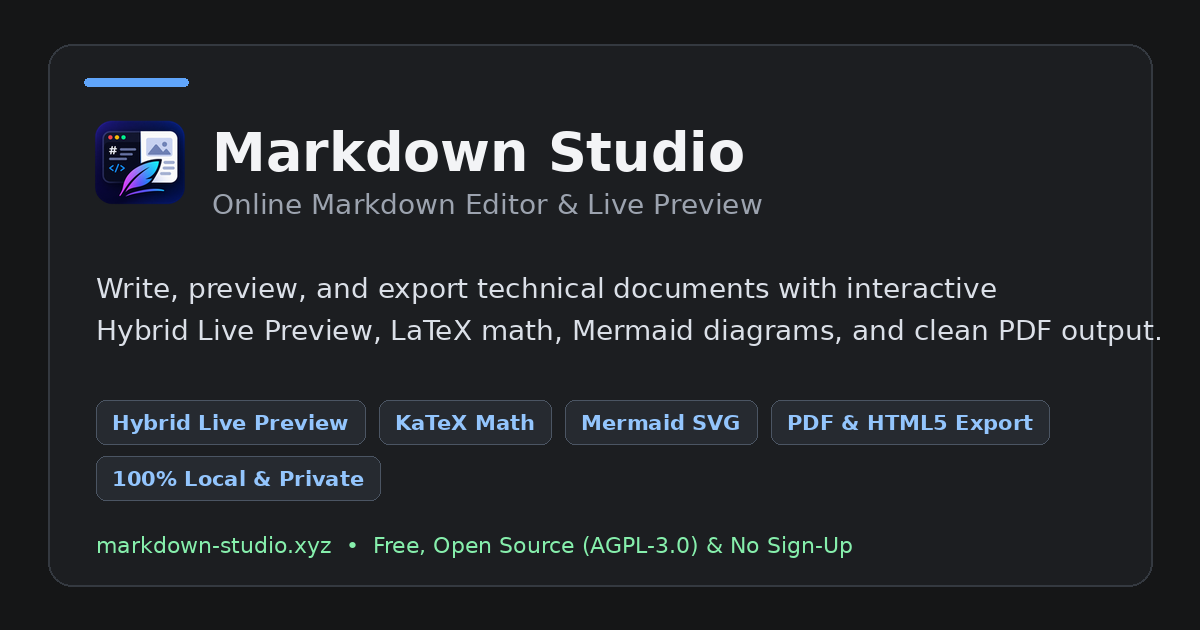
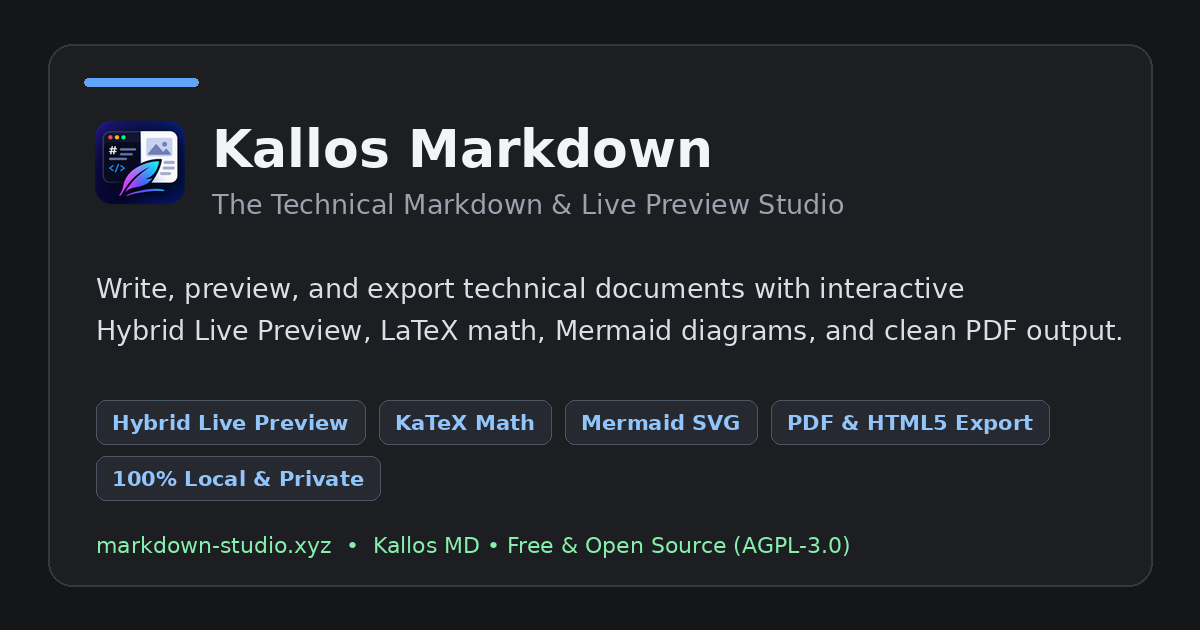
feat(branding): introduce Kallos Markdown brand identity and bilingual static landings
- Establish Kallos Markdown (Kallos MD) as the distinctive brand name on markdown-studio.xyz
- Add ultra-fast static landing pages for English (/) and Spanish (/es/) with semantic content and FAQ
- Relocate dynamic SPA editor to /app/ with noindex robots directive and locale query param (?lang=)
- Configure multi-page build in vite.config.ts for root, /es/, and /app/
- Add reciprocal hreflang alternates (en, es, x-default), canonical tags, and structured JSON-LD WebApplication schemas
- Add 1200x630 og-image.png, lightweight landing.css, 404.html, and updated sitemap.xml
- Update sidebar header and READMEs with Kallos Markdown branding and project roadmap
- Add automated verification script scripts/seo-check.mjs and npm run seo:check script

diff --git a/es/index.html b/es/index.html
@@ -27,7 +27,7 @@
   <link rel="manifest" href="/manifest.webmanifest" />
   <link rel="stylesheet" href="/landing.css" />
 
-  <title>Markdown Studio – Editor Markdown Online con Vista Previa</title>
+  <title>Kallos Markdown – Editor Markdown Online con Vista Previa</title>
   <meta name="description"
     content="Editor Markdown online gratuito con vista previa en vivo, fórmulas LaTeX (KaTeX), diagramas Mermaid y exportación a PDF. Privado y sin registro." />
   <meta name="author" content="Manuel Alvarez" />
@@ -40,29 +40,30 @@
 
   <meta property="og:type" content="website" />
   <meta property="og:url" content="https://markdown-studio.xyz/es/" />
-  <meta property="og:site_name" content="Markdown Studio" />
+  <meta property="og:site_name" content="Kallos Markdown" />
   <meta property="og:locale" content="es_ES" />
   <meta property="og:locale:alternate" content="en_US" />
-  <meta property="og:title" content="Markdown Studio – Editor Markdown Online con Vista Previa" />
+  <meta property="og:title" content="Kallos Markdown – Editor Markdown Online con Vista Previa" />
   <meta property="og:description"
     content="Editor Markdown online gratuito con vista previa en vivo, fórmulas LaTeX (KaTeX), diagramas Mermaid y exportación a PDF. Privado y sin registro." />
   <meta property="og:image" content="https://markdown-studio.xyz/og-image.png" />
   <meta property="og:image:width" content="1200" />
   <meta property="og:image:height" content="630" />
-  <meta property="og:image:alt" content="Markdown Studio – Editor Markdown Online con Vista Previa en Vivo, Fórmulas KaTeX, Diagramas Mermaid y Exportación a PDF" />
+  <meta property="og:image:alt" content="Kallos Markdown – Editor Markdown Online con Vista Previa en Vivo, Fórmulas KaTeX, Diagramas Mermaid y Exportación a PDF" />
 
   <meta name="twitter:card" content="summary_large_image" />
-  <meta name="twitter:title" content="Markdown Studio – Editor Markdown Online con Vista Previa" />
+  <meta name="twitter:title" content="Kallos Markdown – Editor Markdown Online con Vista Previa" />
   <meta name="twitter:description"
     content="Editor Markdown online gratuito con vista previa en vivo, fórmulas LaTeX (KaTeX), diagramas Mermaid y exportación a PDF. Privado y sin registro." />
   <meta name="twitter:image" content="https://markdown-studio.xyz/og-image.png" />
-  <meta name="twitter:image:alt" content="Markdown Studio – Editor Markdown Online con Vista Previa en Vivo, Fórmulas KaTeX, Diagramas Mermaid y Exportación a PDF" />
+  <meta name="twitter:image:alt" content="Kallos Markdown – Editor Markdown Online con Vista Previa en Vivo, Fórmulas KaTeX, Diagramas Mermaid y Exportación a PDF" />
 
   <script type="application/ld+json">
   {
     "@context": "https://schema.org",
     "@type": "WebApplication",
-    "name": "Markdown Studio",
+    "name": "Kallos Markdown",
+    "alternateName": ["Kallos MD", "Markdown Studio"],
     "url": "https://markdown-studio.xyz/es/",
     "description": "Editor Markdown online gratuito con vista previa en vivo, fórmulas LaTeX (KaTeX), diagramas Mermaid y exportación a PDF. Privado y sin registro.",
     "applicationCategory": "DeveloperApplication",
@@ -92,9 +93,9 @@
 <body>
   <header class="site-header">
     <div class="header-inner">
-      <a href="/es/" class="brand-link" aria-label="Inicio de Markdown Studio">
-        <img src="/md-studio-icon-32.png" alt="Logotipo de Markdown Studio" width="28" height="28" class="brand-icon" />
-        <span>Markdown Studio</span>
+      <a href="/es/" class="brand-link" aria-label="Inicio de Kallos Markdown">
+        <img src="/md-studio-icon-32.png" alt="Logotipo de Kallos Markdown" width="28" height="28" class="brand-icon" />
+        <span>Kallos Markdown</span>
       </a>
       <nav class="nav-actions" aria-label="Selector de idioma y navegación principal">
         <div class="lang-switcher" role="group" aria-label="Selector de idioma">
@@ -111,13 +112,13 @@
       <span class="hero-badge">100% Local y Privado • Gratuito y Open Source • Sin Registro</span>
       <h1>Editor Markdown Online con Vista Previa en Vivo, LaTeX y Mermaid</h1>
       <p class="hero-lead">
-        Escribe, previsualiza y organiza documentación técnica directamente en tu navegador. <strong>Markdown Studio</strong>
+        Escribe, previsualiza y organiza documentación técnica directamente en tu navegador. <strong>Kallos Markdown</strong>
         combina un modo híbrido <em>Live Preview</em> interactivo en un único lienzo, vista dividida con desplazamiento
         sincronizado, ecuaciones LaTeX con KaTeX, diagramas Mermaid interactivos y exportación limpia de Markdown a PDF,
         sin servidores externos y con privacidad absoluta.
       </p>
       <div class="hero-cta">
-        <a href="/app/?lang=es" class="btn-primary">Abrir el editor Markdown</a>
+        <a href="/app/?lang=es" class="btn-primary">Abrir Kallos Markdown</a>
         <a href="https://github.com/SamaelEND/markdown-studio" class="btn-secondary" rel="noopener noreferrer">Ver código en GitHub</a>
       </div>
     </section>
@@ -261,7 +262,7 @@
 
   <footer class="site-footer">
     <p>
-      <strong>Markdown Studio</strong> • Software Libre (<a href="https://github.com/SamaelEND/markdown-studio/blob/main/LICENSE" rel="noopener noreferrer">AGPL-3.0</a>) •
+      <strong>Kallos Markdown</strong> (antes Markdown Studio) • Software Libre (<a href="https://github.com/SamaelEND/markdown-studio/blob/main/LICENSE" rel="noopener noreferrer">AGPL-3.0</a>) •
       <a href="/app/?lang=es">Abrir el editor</a> •
       <a href="/" hreflang="en" lang="en">English Version</a>
     </p>

diff --git a/index.html b/index.html
@@ -27,7 +27,7 @@
   <link rel="manifest" href="/manifest.webmanifest" />
   <link rel="stylesheet" href="/landing.css" />
 
-  <title>Markdown Studio – Online Markdown Editor with Live Preview</title>
+  <title>Kallos Markdown – Online Markdown Editor with Live Preview</title>
   <meta name="description"
     content="Free online Markdown editor with live preview, LaTeX math (KaTeX), Mermaid diagrams and PDF export. Private and runs in your browser, no sign-up." />
   <meta name="author" content="Manuel Alvarez" />
@@ -41,29 +41,30 @@
 
   <meta property="og:type" content="website" />
   <meta property="og:url" content="https://markdown-studio.xyz/" />
-  <meta property="og:site_name" content="Markdown Studio" />
+  <meta property="og:site_name" content="Kallos Markdown" />
   <meta property="og:locale" content="en_US" />
   <meta property="og:locale:alternate" content="es_ES" />
-  <meta property="og:title" content="Markdown Studio – Online Markdown Editor with Live Preview" />
+  <meta property="og:title" content="Kallos Markdown – Online Markdown Editor with Live Preview" />
   <meta property="og:description"
     content="Free online Markdown editor with live preview, LaTeX math (KaTeX), Mermaid diagrams and PDF export. Private and runs in your browser, no sign-up." />
   <meta property="og:image" content="https://markdown-studio.xyz/og-image.png" />
   <meta property="og:image:width" content="1200" />
   <meta property="og:image:height" content="630" />
-  <meta property="og:image:alt" content="Markdown Studio – Online Markdown Editor with Live Preview, KaTeX Math, Mermaid Diagrams and PDF Export" />
+  <meta property="og:image:alt" content="Kallos Markdown – Online Markdown Editor with Live Preview, KaTeX Math, Mermaid Diagrams and PDF Export" />
 
   <meta name="twitter:card" content="summary_large_image" />
-  <meta name="twitter:title" content="Markdown Studio – Online Markdown Editor with Live Preview" />
+  <meta name="twitter:title" content="Kallos Markdown – Online Markdown Editor with Live Preview" />
   <meta name="twitter:description"
     content="Free online Markdown editor with live preview, LaTeX math (KaTeX), Mermaid diagrams and PDF export. Private and runs in your browser, no sign-up." />
   <meta name="twitter:image" content="https://markdown-studio.xyz/og-image.png" />
-  <meta name="twitter:image:alt" content="Markdown Studio – Online Markdown Editor with Live Preview, KaTeX Math, Mermaid Diagrams and PDF Export" />
+  <meta name="twitter:image:alt" content="Kallos Markdown – Online Markdown Editor with Live Preview, KaTeX Math, Mermaid Diagrams and PDF Export" />
 
   <script type="application/ld+json">
   {
     "@context": "https://schema.org",
     "@type": "WebApplication",
-    "name": "Markdown Studio",
+    "name": "Kallos Markdown",
+    "alternateName": ["Kallos MD", "Markdown Studio"],
     "url": "https://markdown-studio.xyz/",
     "description": "Free online Markdown editor with live preview, LaTeX math (KaTeX), Mermaid diagrams and PDF export. Private and runs in your browser, no sign-up.",
     "applicationCategory": "DeveloperApplication",
@@ -93,9 +94,9 @@
 <body>
   <header class="site-header">
     <div class="header-inner">
-      <a href="/" class="brand-link" aria-label="Markdown Studio Home">
-        <img src="/md-studio-icon-32.png" alt="Markdown Studio logo" width="28" height="28" class="brand-icon" />
-        <span>Markdown Studio</span>
+      <a href="/" class="brand-link" aria-label="Kallos Markdown Home">
+        <img src="/md-studio-icon-32.png" alt="Kallos Markdown logo" width="28" height="28" class="brand-icon" />
+        <span>Kallos Markdown</span>
       </a>
       <nav class="nav-actions" aria-label="Language and primary navigation">
         <div class="lang-switcher" role="group" aria-label="Language selector">
@@ -112,12 +113,12 @@
       <span class="hero-badge">100% Local-First • Free &amp; Open Source • No Sign-Up</span>
       <h1>Online Markdown Editor with Live Preview, LaTeX &amp; Mermaid</h1>
       <p class="hero-lead">
-        Write, preview, and organize technical documentation right in your browser. <strong>Markdown Studio</strong>
+        Write, preview, and organize technical documentation right in your browser. <strong>Kallos Markdown</strong>
         combines an interactive hybrid live preview canvas, split-screen synchronized scrolling, instant KaTeX math rendering,
         interactive Mermaid diagrams, and clean Markdown to PDF export—with zero servers and complete privacy.
       </p>
       <div class="hero-cta">
-        <a href="/app/?lang=en" class="btn-primary">Launch Markdown Studio</a>
+        <a href="/app/?lang=en" class="btn-primary">Launch Kallos Markdown</a>
         <a href="https://github.com/SamaelEND/markdown-studio" class="btn-secondary" rel="noopener noreferrer">View Source on GitHub</a>
       </div>
     </section>
@@ -260,7 +261,7 @@
 
   <footer class="site-footer">
     <p>
-      <strong>Markdown Studio</strong> • Free &amp; Open Source (<a href="https://github.com/SamaelEND/markdown-studio/blob/main/LICENSE" rel="noopener noreferrer">AGPL-3.0</a>) •
+      <strong>Kallos Markdown</strong> (formerly Markdown Studio) • Free &amp; Open Source (<a href="https://github.com/SamaelEND/markdown-studio/blob/main/LICENSE" rel="noopener noreferrer">AGPL-3.0</a>) •
       <a href="/app/?lang=en">Open Editor</a> •
       <a href="/es/" hreflang="es" lang="es">Versión en Español</a>
     </p>

diff --git a/public/404.html b/public/404.html
@@ -7,15 +7,15 @@
   <meta name="robots" content="noindex, nofollow" />
   <link rel="icon" type="image/svg+xml" href="/favicon.svg" />
   <link rel="stylesheet" href="/landing.css" />
-  <title>404 – Page Not Found | Markdown Studio</title>
+  <title>404 – Page Not Found | Kallos Markdown</title>
 </head>
 
 <body>
   <header class="site-header">
     <div class="header-inner">
       <a href="/" class="brand-link">
-        <img src="/md-studio-icon-32.png" alt="Markdown Studio logo" width="28" height="28" class="brand-icon" />
-        <span>Markdown Studio</span>
+        <img src="/md-studio-icon-32.png" alt="Kallos Markdown logo" width="28" height="28" class="brand-icon" />
+        <span>Kallos Markdown</span>
       </a>
     </div>
   </header>

diff --git a/app/index.html b/app/index.html
@@ -29,8 +29,8 @@
   <meta name="mobile-web-app-capable" content="yes" />
   <meta name="apple-mobile-web-app-capable" content="yes" />
   <meta name="apple-mobile-web-app-status-bar-style" content="black-translucent" />
-  <title>Markdown Studio — Workspace</title>
-  <meta name="description" content="Markdown Studio interactive workspace with hybrid live preview, KaTeX math, Mermaid diagrams, and PDF export." />
+  <title>Kallos Markdown — Workspace</title>
+  <meta name="description" content="Kallos Markdown (Markdown Studio) interactive workspace with hybrid live preview, KaTeX math, Mermaid diagrams, and PDF export." />
   <meta name="robots" content="noindex, follow" />
   <link rel="canonical" href="https://markdown-studio.xyz/" />
 </head>

diff --git a/src/features/vault/sidebar/SidebarHeader.svelte b/src/features/vault/sidebar/SidebarHeader.svelte
@@ -8,12 +8,12 @@
   <div class="header-brand">
     <img
       src="/md-studio-icon-32.png"
-      alt="Markdown Studio Logo"
+      alt="Kallos Markdown Logo"
       class="brand-logo"
       width="24"
       height="24"
     />
-    <h2 class="sidebar-title">Markdown Studio</h2>
+    <h2 class="sidebar-title">Kallos Markdown</h2>
   </div>
 </div>
 

diff --git a/README.es.md b/README.es.md
@@ -1,4 +1,4 @@
-# Markdown Studio — Editor Markdown & Previsualizador en Vivo
+# Kallos Markdown (Markdown Studio) — Editor Markdown & Previsualizador en Vivo
 
 <div align="center">
 
@@ -12,7 +12,7 @@
 
 </div>
 
-> **Markdown Studio** es un entorno moderno, de alto rendimiento y 100% en el cliente para la redacción y previsualización de Markdown, diseñado para brindar máxima claridad, cero distracciones, soberanía total de datos y una experiencia ergonómica de escritura y lectura.
+> **Kallos Markdown** (*Kallos MD*) es un entorno moderno, de alto rendimiento y 100% en el cliente para la redacción y previsualización de Markdown, diseñado para brindar máxima claridad, cero distracciones, soberanía total de datos y una experiencia ergonómica de escritura y lectura. Anteriormente conocido como Markdown Studio.
 
 Construido con **Svelte 5** (Runas), **TypeScript**, **Vite 8** y **CodeMirror 6**, cuenta con una arquitectura modular limpia en 3 capas (`core/`, `features/`, `shared/`), un lienzo interactivo en **Modo Híbrido Live Preview**, edición dividida con scroll sincronizado, renderizado matemático mediante **KaTeX** local, diagramas vectoriales interactivos con **Mermaid**, extensiones **GFM** (tablas, alertas y notas al pie), exportación profesional a **PDF** y **HTML5 autónomo**, gestión de carpetas anidadas y almacenamiento 100% offline respaldado en **IndexedDB**.
 

diff --git a/README.md b/README.md
@@ -1,4 +1,4 @@
-# Markdown Studio — Markdown Editor & Live Preview
+# Kallos Markdown (Markdown Studio) — Online Markdown Editor & Live Preview
 
 <div align="center">
 
@@ -12,7 +12,7 @@
 
 </div>
 
-> **Markdown Studio** is a modern, high-performance, client-side Markdown workspace designed for clarity, zero distractions, complete data sovereignty, and an ergonomic writing experience.
+> **Kallos Markdown** (*Kallos MD*) is a modern, high-performance, client-side Markdown workspace designed for clarity, zero distractions, complete data sovereignty, and an ergonomic writing experience. Formerly known as Markdown Studio.
 
 Built with **Svelte 5** (Runes), **TypeScript**, **Vite 8**, and **CodeMirror 6**, it features an Obsidian-free, clean-room modular 3-layer architecture (`core/`, `features/`, `shared/`), an interactive **Hybrid Live Preview** canvas, synchronized split-view editing, mathematical typesetting via self-hosted **KaTeX**, interactive vector diagrams with **Mermaid**, **GFM** extensions (tables, callouts, and footnotes), print-ready **PDF** and standalone **HTML5** export, nested folder management, and 100% offline-first storage backed by **IndexedDB**.
 
